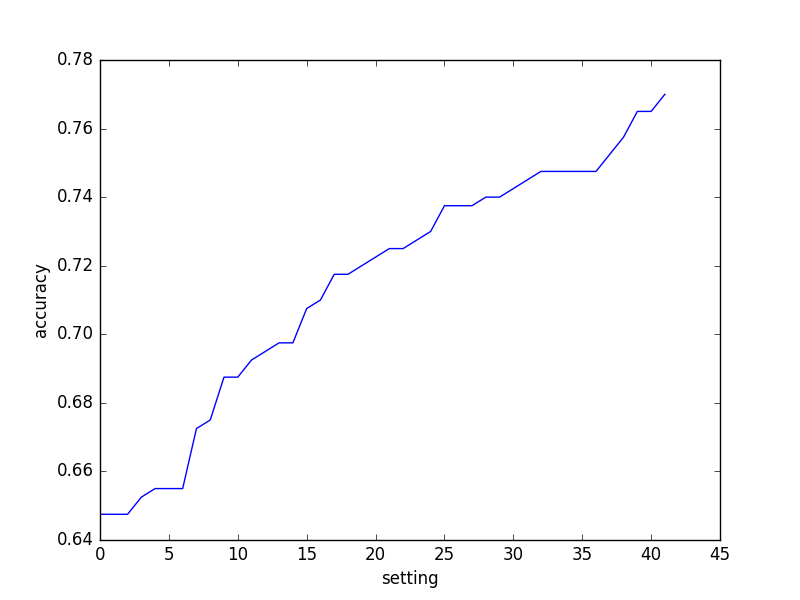
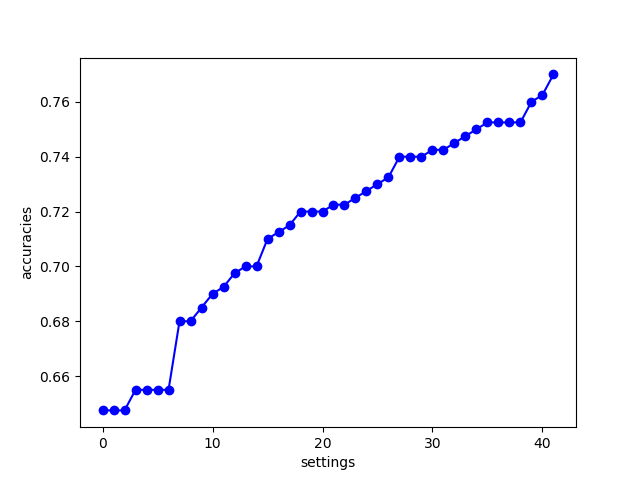
made some improvements

diff --git a/a2/a2.py b/a2/a2.py
@@ -94,20 +94,25 @@ def tokenize(doc, keep_internal_punct=False):
           dtype='<U5')
     """
     ###TODO
-    if not doc:
-        return []
+    # if not doc:
+    #     return []
     
-    doc = doc.lower()
-    tokens = []
-    if keep_internal_punct:
-      exclude_strings = string.punctuation
-      doc_split = doc.strip().split()
-      tokens = [d.lstrip(exclude_strings) for d in doc_split]
-      tokens = [d.rstrip(exclude_strings) for d in doc_split]
-    else:
-      tokens = re.sub('\W+', ' ', doc).split()
+    # doc = doc.lower()
+    # tokens = []
+    # if keep_internal_punct:
+    #   exclude_strings = string.punctuation
+    #   doc_split = doc.strip().split()
+    #   tokens = [d.lstrip(exclude_strings) for d in doc_split]
+    #   tokens = [d.rstrip(exclude_strings) for d in doc_split]
+    # else:
+    #   tokens = re.sub('\W+', ' ', doc).split()
 
-    return np.array(tokens)
+    # return np.array(tokens)
+
+    if(keep_internal_punct):
+      return np.array([re.sub('^\W+', '',re.sub('\W+$', '',x.lower())) for x in doc.split()])
+    else:
+      return np.array(re.sub('\W+', ' ', doc.lower()).split())
 
     pass
 
@@ -132,7 +137,8 @@ def token_features(tokens, feats):
     """
     ###TODO
     for token in tokens:
-      feats["token="+token] = list(tokens).count(token)
+      feats["token="+token] += 1
+
     pass
 
 
@@ -163,6 +169,21 @@ def token_pair_features(tokens, feats, k=3):
     [('token_pair=a__b', 1), ('token_pair=a__c', 1), ('token_pair=b__c', 2), ('token_pair=b__d', 1), ('token_pair=c__d', 1)]
     """
     ###TODO
+    # combinations_list = []
+    l = 0
+    r = k
+    while r <= len(tokens):
+      temp = tokens[l:r]
+
+      for i in range(0, len(temp)):
+        for j in range(i+1, len(temp)):
+          # combinations_list.append("token_pair="+temp[i]+"__"+temp[j])
+          feats["token_pair="+temp[i]+"__"+temp[j]] += 1
+
+         
+      l = l + 1
+      r = r + 1
+
     pass
 
 
@@ -189,6 +210,18 @@ def lexicon_features(tokens, feats):
     [('neg_words', 1), ('pos_words', 2)]
     """
     ###TODO
+    pos_counter = 0
+    neg_counter = 0
+    for token in tokens:
+      if token.lower() in pos_words:
+        pos_counter = pos_counter + 1
+      
+      if token.lower() in neg_words:
+        neg_counter = neg_counter + 1
+
+    feats['pos_words'] = pos_counter
+    feats['neg_words'] = neg_counter 
+
     pass
 
 
@@ -213,7 +246,7 @@ def featurize(tokens, feature_fns):
     for funct in feature_fns:
       funct(tokens, feats)
 
-    return sorted(feats.items())
+    return sorted(feats.items(),key=lambda x:(x[0]))
     pass
 
 
@@ -250,6 +283,47 @@ def vectorize(tokens_list, feature_fns, min_freq, vocab=None):
     [('token=great', 0), ('token=horrible', 1), ('token=isn', 2), ('token=movie', 3), ('token=t', 4), ('token=this', 5)]
     """
     ###TODO
+    row_list = []
+    col_list = []
+    data = []
+    row = 0
+
+    feats_list = []
+    feats = defaultdict(lambda: 0)
+    for tokens in tokens_list:
+      feats = featurize(tokens, feature_fns)
+      feats_list.append(dict(feats))
+  
+    if vocab == None:
+      vocabulary = []
+      visited = defaultdict(lambda: 0)
+      freq = defaultdict(lambda: 0)
+      vocab = defaultdict(lambda: 0)
+      for feat in feats_list:
+        for k, v in feat.items():
+          if feat[k] > 0:
+            freq[k] += 1
+          if (k not in visited) and (freq[k] >= min_freq):
+            vocabulary.append(k)
+            visited[k] = 0
+
+      vocabulary = sorted(vocabulary)
+      count = 0
+      for k in vocabulary:
+        vocab[k] = count
+        count += 1
+
+    
+    for feat in feats_list:
+      for k, v in feat.items():
+        if k in vocab:
+          col_list.append(vocab[k])
+          data.append(v)
+          row_list.append(row)
+      row += 1 
+
+    X = csr_matrix((np.array(data,dtype='int64'), (np.array(row_list,dtype='int64'),np.array(col_list,dtype='int64'))), shape=(row, len(vocab)))
+    return X, vocab
     pass
 
 
@@ -280,6 +354,15 @@ def cross_validation_accuracy(clf, X, labels, k):
       over each fold of cross-validation.
     """
     ###TODO
+    cv = KFold(len(labels), k)
+    accuracies = []
+    for train_idx, test_idx in cv:
+        clf.fit(X[train_idx], labels[train_idx])
+        predicted = clf.predict(X[test_idx])
+        acc = accuracy_score(labels[test_idx], predicted)
+        accuracies.append(acc)
+    avg = np.mean(accuracies)
+    return avg
     pass
 
 
@@ -322,11 +405,25 @@ def eval_all_combinations(docs, labels, punct_vals,
       This function will take a bit longer to run (~20s for me).
     """
     ###TODO
-    tokens_list = []
-    for doc in docs:
-      tokens_list = tokenize(doc)
-      feats = featurize(tokens_list, feature_fns)
+    result = []
 
+    for punct in punct_vals:
+      tokens_list = []
+      for doc in docs:
+        tokens_list.append(tokenize(doc, punct))
+      for min_feq in min_freqs:
+        for f in range(1, len(feature_fns)+1):
+          for features in combinations(feature_fns, f):
+            features_list = list(features)
+            X, vocab = vectorize(tokens_list, features_list, min_feq)
+            result_dict = {}
+            result_dict['punct'] = punct
+            result_dict['features'] = features
+            result_dict['min_freq'] = min_feq
+            result_dict['accuracy'] = cross_validation_accuracy(LogisticRegression(), X, labels, 5)
+            result.append(result_dict)
+
+    return sorted(result, key=lambda x: x['accuracy'], reverse=True)
     pass
 
 
@@ -337,6 +434,12 @@ def plot_sorted_accuracies(results):
     Save to "accuracies.png".
     """
     ###TODO
+    accuracy_list = [dicts['accuracy'] for dicts in results]
+    plt.plot(range(len(accuracy_list)), sorted(accuracy_list), 'bo-')
+    plt.xlabel('settings')
+    plt.ylabel('accuracies')
+    plt.savefig('accuracies.png')
+    # plt.show()
     pass
 
 
@@ -354,6 +457,9 @@ def mean_accuracy_per_setting(results):
       descending order of accuracy.
     """
     ###TODO
+    # mena_accuracy_list = []
+    # for dicts in results:
+    #   for k, v in dicts.items():
     pass
 
 
